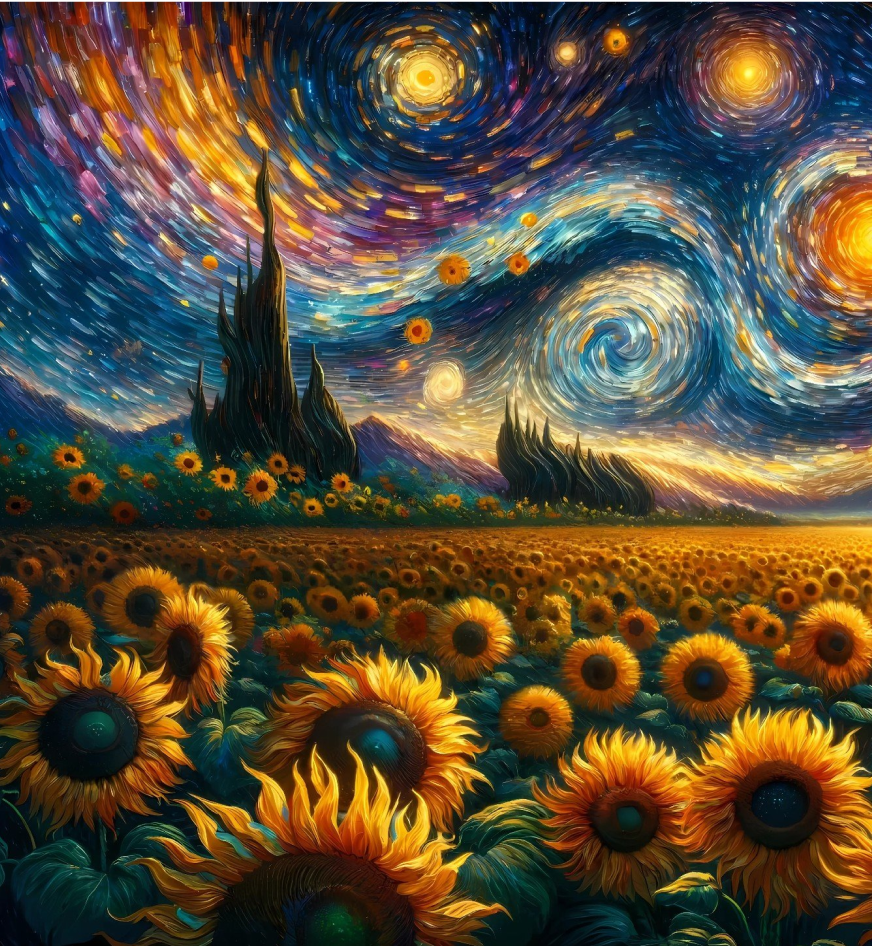
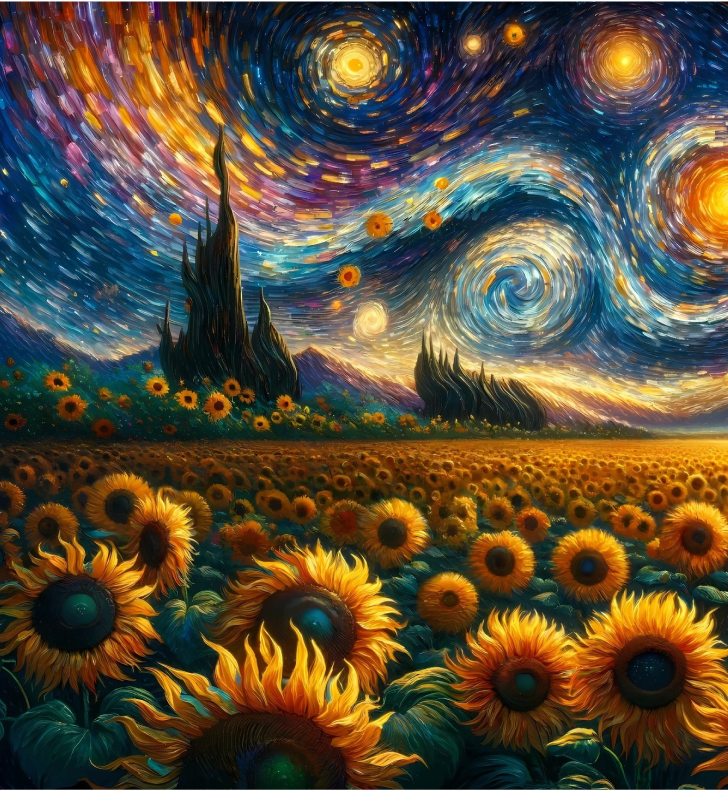
Reduce size of images

Changed region(s): [[0.7857, 0.9722, 0.8159, 1.0]]

diff --git a/src/pages/WhoAreWe.tsx b/src/pages/WhoAreWe.tsx
@@ -49,7 +49,7 @@ const WhoAreWe = () => {
                 },
             ]}
             title="Who Are We"
-            right="/trivia1.jpeg"
+            right="/trivia1.png"
             rightAlt="Trivia-1"
         />
     );
